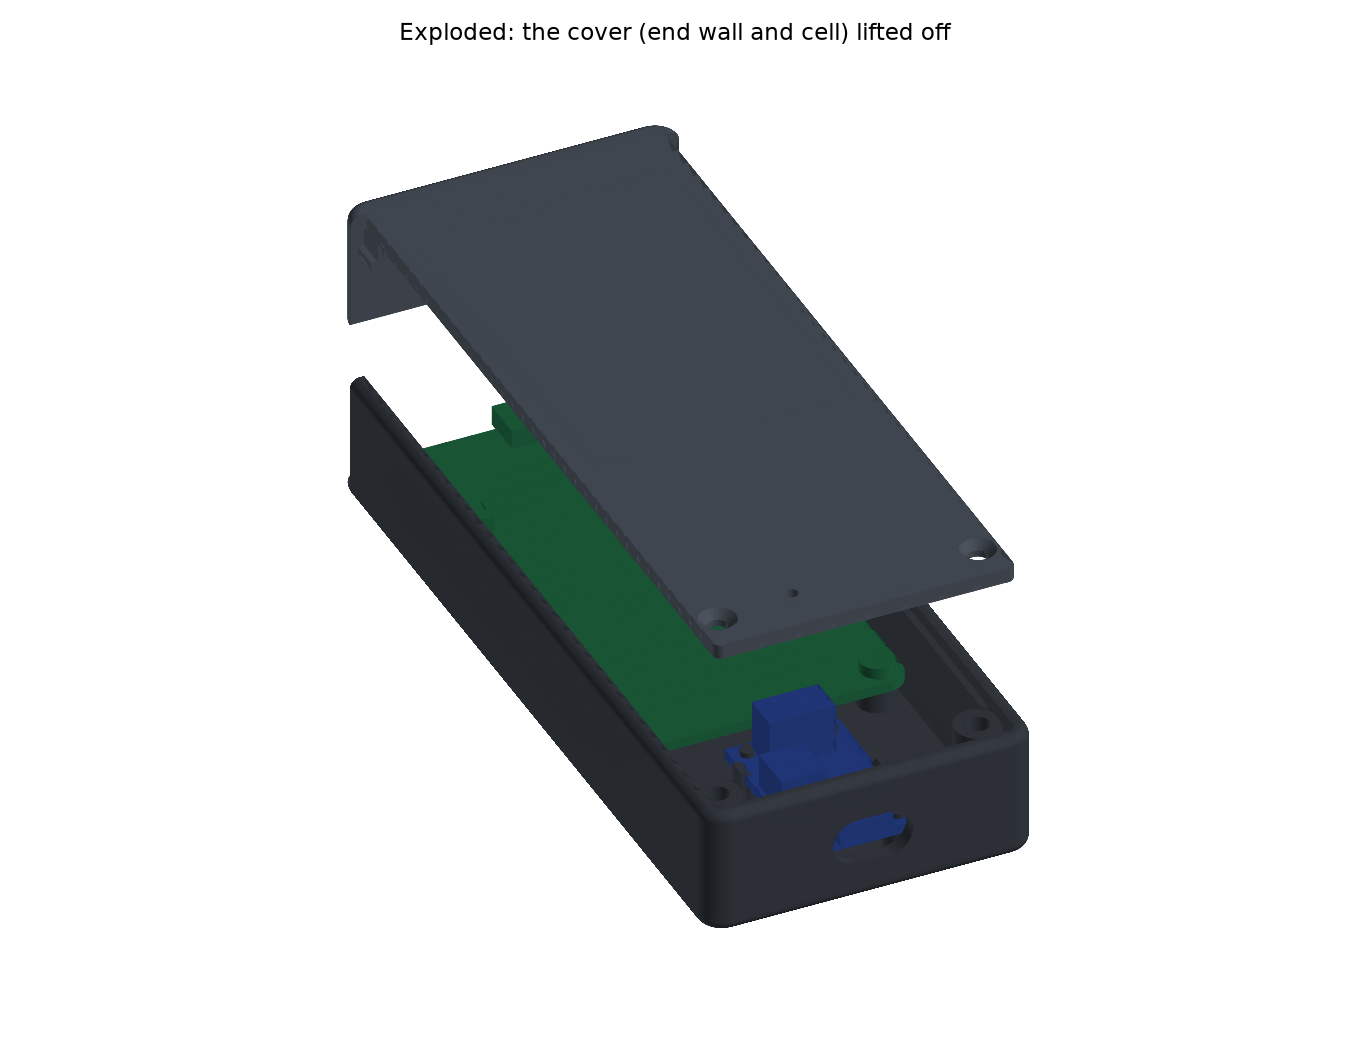
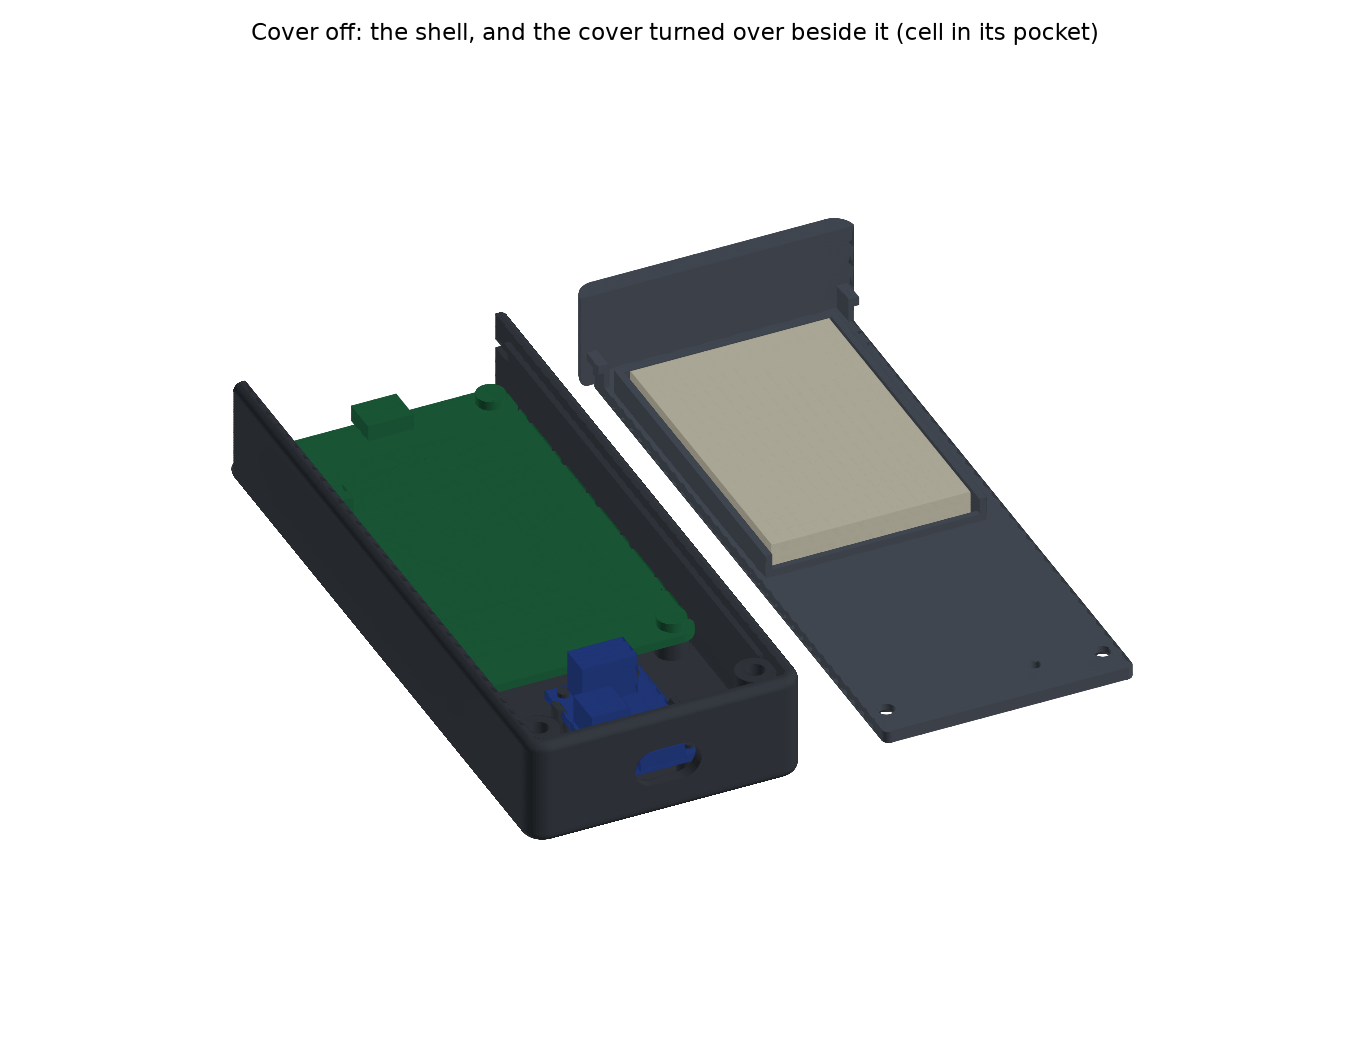
fix: COM-445 address review: render empty/zshade guards, exploded view, RIB_FROM_PCB_TOP, naming

diff --git a/apps/media-room-dashboard/hardware/enclosure/remote/render.py b/apps/media-room-dashboard/hardware/enclosure/remote/render.py
@@ -54,16 +54,18 @@ def render(items, path, view=(20, -60), title=None, lines=(), size=(9, 7), ortho
     # Depth-sort parts unless a line (the cable) must be drawn on top of them.
     ax = fig.add_subplot(111, projection="3d", computed_zorder=not lines)
     allpts, all_tri, all_fc = [], [], []
-    for shape, colour, alpha in items:
-        tri = _mesh(shape)
-        if not len(tri):
-            continue
+    meshes = [(_mesh(shape), colour, alpha) for shape, colour, alpha in items]
+    meshes = [m for m in meshes if len(m[0])]
+    if zshade and meshes:   # one height range for every item, so the same Z gets the same shade
+        zall = np.concatenate([tri[:, :, 2].mean(1) for tri, _, _ in meshes])
+        z_lo, z_span = zall.min(), np.ptp(zall) + 1e-9
+    for tri, colour, alpha in meshes:
         n = np.cross(tri[:, 1] - tri[:, 0], tri[:, 2] - tri[:, 0])
         n /= np.linalg.norm(n, axis=1, keepdims=True) + 1e-12
         shade = 0.45 + 0.55 * np.abs(n @ LIGHT)
         if zshade:   # plan views: darker = lower, so pockets and floors read clearly
             zc = tri[:, :, 2].mean(1)
-            shade = 0.35 + 0.65 * (zc - zc.min()) / (np.ptp(zc) + 1e-9)
+            shade = 0.35 + 0.65 * (zc - z_lo) / z_span
         fc = np.clip(np.array(colour)[None, :] * shade[:, None], 0, 1)
         all_tri.append(tri)
         all_fc.append(np.c_[fc, np.full(len(fc), alpha)])
@@ -78,6 +80,8 @@ def render(items, path, view=(20, -60), title=None, lines=(), size=(9, 7), ortho
         pts = np.asarray(pts)
         ax.plot(pts[:, 0], pts[:, 1], pts[:, 2], color=colour, linewidth=width, zorder=10)
         allpts.append(pts)
+    if not allpts:
+        raise ValueError(f"render({path}): no geometry to draw (every item tessellated to nothing and no lines given)")
     pts = np.vstack(allpts)
     lo, hi = pts.min(0), pts.max(0)
     ax.set_xlim(lo[0], hi[0])

diff --git a/apps/media-room-dashboard/hardware/enclosure/remote/checks.py b/apps/media-room-dashboard/hardware/enclosure/remote/checks.py
@@ -197,11 +197,11 @@ def run(parts: dict, ch: p.Charger) -> list:
     slide = slide_in()
     hits = [s for s in [i * 0.5 for i in range(int(slide / 0.5) + 1)] if (Pos(0, s, 0) * cover & shell).volume > EPS]
     lowered = [k for k in range(0, 31, 2) if (Pos(0, slide, -k) * cover & shell).volume > EPS]
-    skin = p.WALL - p.TOP_TONGUE_IN - p.TOP_SLOT_CLEAR
-    add("Cover slides into its tongue slots", not hits and not lowered and skin >= 1.0,
+    tongue_skin = p.WALL - p.TOP_TONGUE_IN - p.TOP_SLOT_CLEAR
+    add("Cover slides into its tongue slots", not hits and not lowered and tongue_skin >= 1.0,
         f"laid in {slide:g} mm high, it drops straight down and slides {slide:g} mm into place without touching the shell"
         + (f" (collides at slide {hits})" if hits else "") + (f" (collides lowering at {lowered} mm)" if lowered else "")
-        + f"; 2 tongues {p.TOP_TONGUE_L:g} mm long reach {p.TOP_TONGUE_IN:g} mm into the side walls, leaving {skin:.1f} mm of wall")
+        + f"; 2 tongues {p.TOP_TONGUE_L:g} mm long reach {p.TOP_TONGUE_IN:g} mm into the side walls, leaving {tongue_skin:.1f} mm of wall")
     engage = p.COVER_SCREW_L - p.COVER_T
     hole = p.COVER_SCREW_L - p.COVER_T + 1.0
     add("Cover screw engagement", p.INSERT_L - 0.5 <= engage <= hole - 0.5 and p.CSK_DEPTH <= p.COVER_T - 0.5,

diff --git a/apps/media-room-dashboard/hardware/enclosure/remote/build.py b/apps/media-room-dashboard/hardware/enclosure/remote/build.py
@@ -128,10 +128,14 @@ def _render_all(shell, cover, printed, variant, docs: Path):
     boards = [item for item in inside if item[0] is not cell]
     render([(flip * s, c, a) for s, c, a in [(shell, SHELL, 1.0)] + boards], docs / "cover-off.png", view=(35, -115),
            title="Cover off: USB-C, RESET and BOOT open at the top end for flashing")
-    lift = Pos(0, 0, -30)
-    render([(flip * s, c, a) for s, c, a in [(shell, SHELL, 1.0)] + boards
-            + [(lift * cover, COVER, 1.0), (lift * cell, CELL, 1.0)]],
-           docs / "exploded.png", view=(35, -115), title="Exploded: the cover (end wall and cell) lifted off")
+    # The open shell (flipped, back up) with the cover beside it turned over, inner face up, so
+    # its pocket and cell show. A cover hovering over the shell, outer face up, defeats
+    # matplotlib's painter's sort (it paints the ribs underneath over the plate).
+    beside = Pos(p.OUTER_W + 15, 0, p.D_BACK_OUTER)
+    render([(flip * s, c, a) for s, c, a in [(shell, SHELL, 1.0)] + boards]
+            + [(beside * cover, COVER, 1.0), (beside * cell, CELL, 1.0)],
+           docs / "exploded.png", view=(35, -115),
+           title="Cover off: the shell, and the cover turned over beside it (cell in its pocket)")
 
 
 if __name__ == "__main__":

diff --git a/apps/media-room-dashboard/hardware/enclosure/remote/reference.py b/apps/media-room-dashboard/hardware/enclosure/remote/reference.py
@@ -174,11 +174,11 @@ class Pocket:
 
 def cell_pocket(ch: p.Charger) -> Pocket:
     """Cell pocket inner faces: against the left wall (the wire channel runs down the right),
-    its top rib 4.1 mm below the PCB's top end."""
+    its top rib RIB_FROM_PCB_TOP below the PCB's top end."""
     x0 = -p.INNER_HALF_W + p.LEDGE_W + p.COVER_CLEAR + p.RIB_T   # left rib clears the cover ledge
     x1 = x0 + p.CELL_W + 2 * p.CELL_CLEAR
     _, pcb_top, _, _ = p.layout(ch)
-    y1 = pcb_top - 4.1 - p.RIB_T   # top rib ends 4.1 mm below the PCB's top end, as before the end wall moved
+    y1 = pcb_top - p.RIB_FROM_PCB_TOP - p.RIB_T   # top rib ends RIB_FROM_PCB_TOP below the PCB's top end
     return Pocket(x0, x1, y1 - (p.CELL_L + 2 * p.CELL_CLEAR), y1)
 
 

diff --git a/apps/media-room-dashboard/hardware/enclosure/remote/params.py b/apps/media-room-dashboard/hardware/enclosure/remote/params.py
@@ -130,6 +130,7 @@ WIRE_TURN_GAP = 7.0               # DESIGN
 COVER_T = 2.4                     # DESIGN: takes an M3 countersunk head flush
 COVER_CLEAR = 0.2                 # DESIGN: cover edge to the shell walls
 RIB_T = 1.2                       # DESIGN: cell-pocket ribs
+RIB_FROM_PCB_TOP = 4.1            # DESIGN: the pocket's top rib ends this far below the Freenove PCB's top end
 RIB_H = 5.0                       # DESIGN: rib height above the cover's inner face
 BOTTOM_RIB_H = 1.5                # DESIGN: the bottom rib is low, so the lead passes over it wherever it leaves the cell end
 LEDGE_W = 1.0                     # DESIGN: cover-support ledge on the side walls (45° underside)

diff --git a/apps/media-room-dashboard/hardware/enclosure/remote/cover.py b/apps/media-room-dashboard/hardware/enclosure/remote/cover.py
@@ -56,8 +56,6 @@ def top_tongues(ch: p.Charger) -> Part:
 
 
 def build_cover(ch: p.Charger) -> Part:
-
-
     """Back cover in the assembled frame: plate, end wall, cell-pocket ribs, tongues, screw countersinks and CHG window."""
     x0, x1, y0, y1 = cover_outline(ch)
     plate = Pos((x0 + x1) / 2, (y0 + y1) / 2, -p.D_BACK_OUTER) * extrude(

diff --git a/apps/media-room-dashboard/hardware/enclosure/README.md b/apps/media-room-dashboard/hardware/enclosure/README.md
@@ -7,7 +7,7 @@ This is **variant 1**: the BQ25185 charger with no fuel gauge (build A of the re
 | | |
 |---|---|
 | ![Front three-quarter](docs/front.png) | ![Back three-quarter](docs/back.png) |
-| ![Cover off: the top end opens for flashing](docs/cover-off.png) | ![Exploded](docs/exploded.png) |
+| ![Cover off: the top end opens for flashing](docs/cover-off.png) | ![The cover turned over beside the shell](docs/exploded.png) |
 | ![Cover off, from behind](docs/inside.png) | ![Section on the centreline](docs/section.png) |
 
 ## How it works
